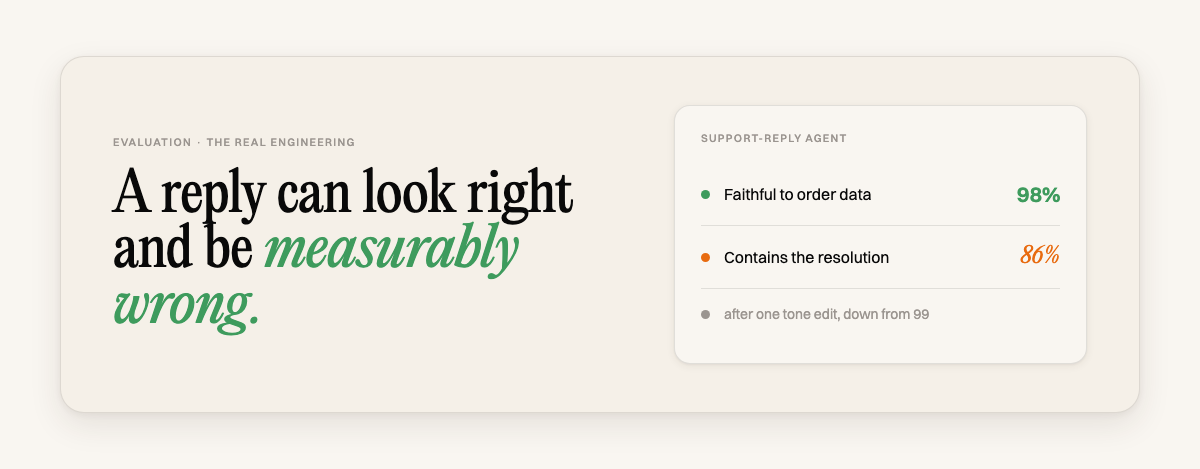
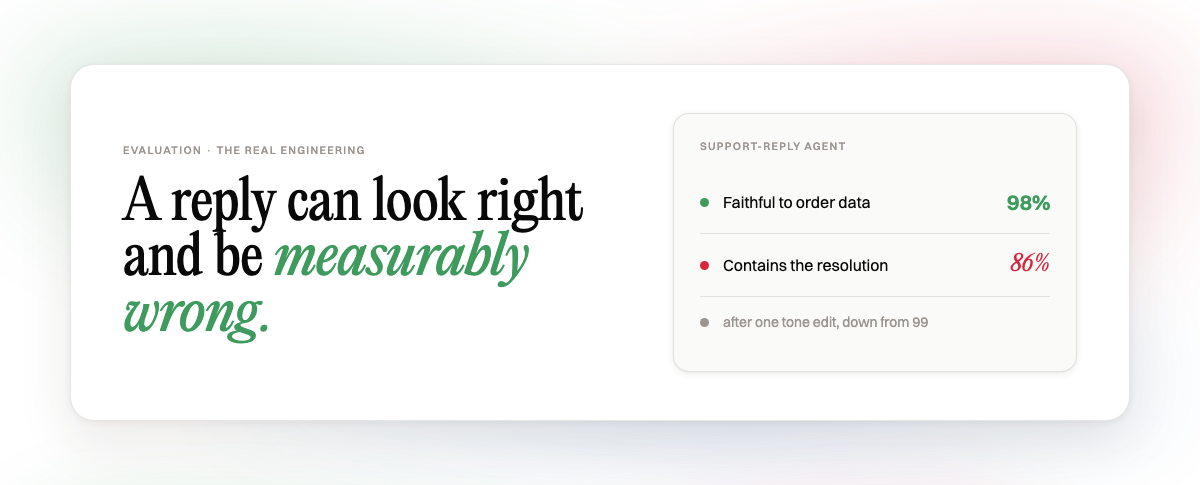
Archive hero.png from content: Tone Fix evals article, nxtphase Articles variant visuals (white, red, blue, fog): hero.png

diff --git a/projects/content/INDEX.md b/projects/content/INDEX.md
@@ -280,3 +280,4 @@
 | 2026-06-13 | images | [screenshot-evalrun.png](images/screenshot-evalrun.png) | Tone Fix Broke the Agent (evals, nxtphase-branded visuals, plugs From Vibe to Production): screenshot-evalrun.png | /Users/marcokotrotsos/PERSONAL/Content/drafts/evals-are-the-engineering/screenshot-evalrun.png |
 | 2026-06-13 | images | [diagram-categories.png](images/diagram-categories.png) | Tone Fix Broke the Agent (evals, nxtphase-branded visuals, plugs From Vibe to Production): diagram-categories.png | /Users/marcokotrotsos/PERSONAL/Content/drafts/evals-are-the-engineering/diagram-categories.png |
 | 2026-06-13 | reports | [draft.html](reports/draft.html) | Tone Fix Broke the Agent (evals, nxtphase-branded visuals, plugs From Vibe to Production): draft.html | /Users/marcokotrotsos/PERSONAL/Content/drafts/evals-are-the-engineering/draft.html |
+| 2026-06-13 | images | [hero.png](images/hero.png) | Tone Fix evals article, nxtphase Articles variant visuals (white, red, blue, fog): hero.png | /Users/marcokotrotsos/PERSONAL/Content/drafts/evals-are-the-engineering/hero.png |

diff --git a/INDEX.md b/INDEX.md
@@ -539,3 +539,4 @@
 | 2026-06-13 | content | images | [screenshot-evalrun.png](projects/content/images/screenshot-evalrun.png) | Tone Fix Broke the Agent (evals, nxtphase-branded visuals, plugs From Vibe to Production): screenshot-evalrun.png |
 | 2026-06-13 | content | images | [diagram-categories.png](projects/content/images/diagram-categories.png) | Tone Fix Broke the Agent (evals, nxtphase-branded visuals, plugs From Vibe to Production): diagram-categories.png |
 | 2026-06-13 | content | reports | [draft.html](projects/content/reports/draft.html) | Tone Fix Broke the Agent (evals, nxtphase-branded visuals, plugs From Vibe to Production): draft.html |
+| 2026-06-13 | content | images | [hero.png](projects/content/images/hero.png) | Tone Fix evals article, nxtphase Articles variant visuals (white, red, blue, fog): hero.png |
